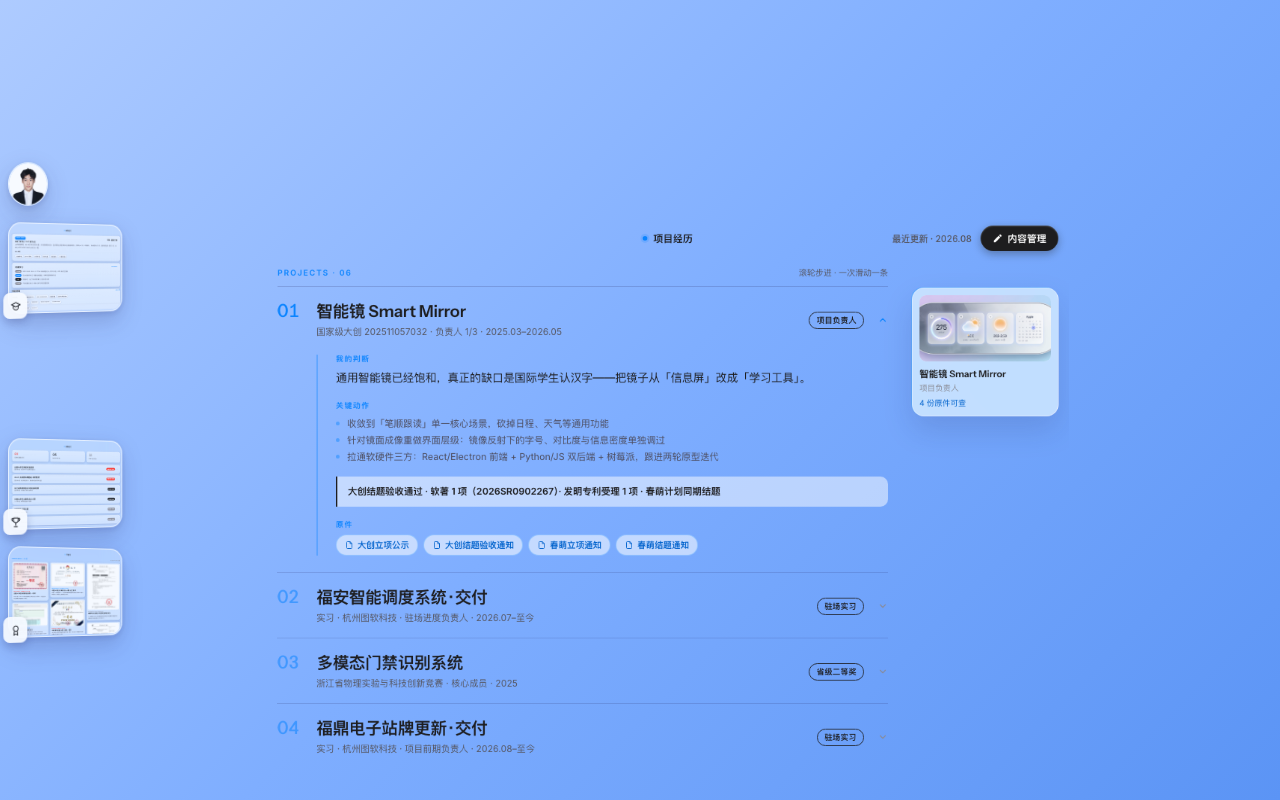
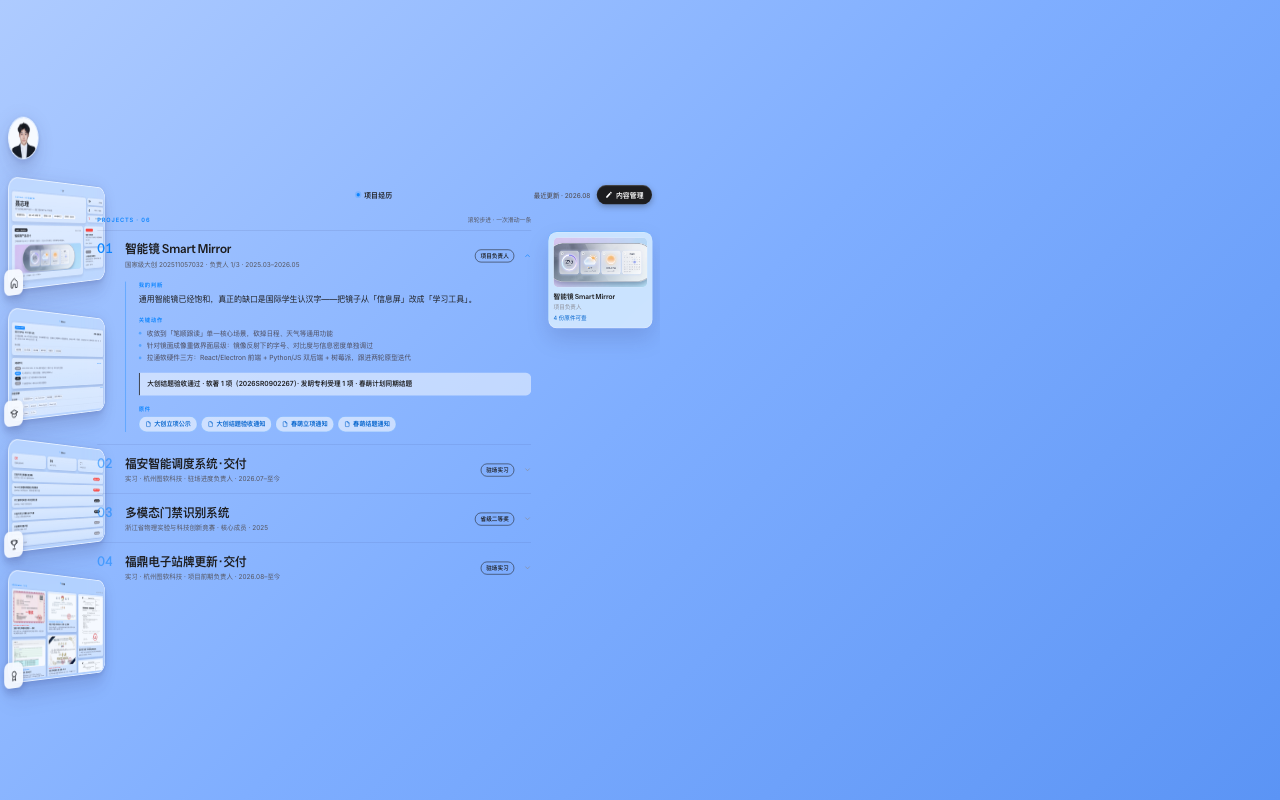
feat(stage): the clicked card flies out and grows; stronger trapezoid
Interaction (was: current page shrank into a slot first, then the new one grew
out of the slot — read as 'page shrinks', not 'card slides out'):
- a flight layer renders the target page and animates from the clicked card's
  measured rect to full stage in 400ms (cubic-bezier(.25,.46,.45,.94)), so the
  card itself appears to slide out and expand
- the outgoing page only fades out (80ms): two glass pages overlapping show
  through each other, so it must be gone before the new window spreads
- transform-origin:0 0 on the stage fixes the landing math — the old default
  (center) offset every flight target by half the stage width
- avatar target starts at border-radius:50% (a px radius gets clamped by the
  44px box and turns the circle into a rounded square)
- swap route + remove the flight layer in the same tick: no flash at the handoff

Shape:
- cards 148x103 -> 165x115, tilt 22deg/700px -> 42deg/420px; visually the right
  edge is now ~0.79x the left edge, and the layout width compensates so the
  thumbnail still reads at ~97px wide
- stage_check: assert the flight start rect equals the clicked card (<=2px),
  and that nothing inline survives the landing

diff --git a/src/App.vue b/src/App.vue
@@ -13,6 +13,15 @@ import CompetitionsView from './views/CompetitionsView.vue'
 import HonorsView from './views/HonorsView.vue'
 import AvatarView from './views/AvatarView.vue'
 
+const VIEWS = {
+  home: HomeView,
+  edu: EducationView,
+  proj: ProjectsView,
+  comp: CompetitionsView,
+  honor: HonorsView,
+  avatar: AvatarView
+}
+
 const STAGE_KEYS = ['avatar', ...navItems.map(n => n.key)]
 
 // 支持 ?v=proj 之类深链，方便直接分享到某一页
@@ -26,19 +35,20 @@ function initialRoute() {
 
 const route = ref(initialRoute())
 const pendingKey = ref(null)
-const phase = ref('idle')            // idle | out | in
-const busy = computed(() => phase.value !== 'idle')
+// 正在从卡片飞出来的那一页（渲染在舞台之上，落位后与舞台换手）
+const incoming = ref(null)
+const busy = computed(() => !!incoming.value)
 const activeKey = computed(() => pendingKey.value ?? route.value)
 
 // 台前调度：左侧窗口条 + 中央舞台。
 // 顺序固定（头像 → 主页 → 教育 → 项目 → 竞赛 → 荣誉），当前页从条中抽出、其余补位。
-// 主页也占一张卡：它是「回首页」的唯一入口，之前把主页当桌面不占位，
-// 结果进了子页就没有回头路（用户实测反馈）。
+// 主页也占一张卡：它是「回首页」的唯一入口。
 const stripOrder = computed(() =>
   STAGE_KEYS.filter(k => k !== activeKey.value)
 )
 
 const mainEl = ref(null)
+const ghostEl = ref(null)
 const stripRef = ref(null)
 
 const showPasscode = ref(false)
@@ -62,12 +72,15 @@ function computeScale() {
   }
 }
 
-// ---------- FLIP：窗口在舞台与条之间飞行 ----------
+// ---------- 窗口飞行 ----------
 const wait = ms => new Promise(r => setTimeout(r, ms))
 // 开发调试：?slowstage=4 把切换动画放慢 4 倍，便于逐帧检查（生产忽略）
 const SLOW = import.meta.env.DEV ? Math.max(1, Math.min(8, Number(new URLSearchParams(location.search).get('slowstage') || 1))) : 1
 // 切换前会用 Escape 广播关掉页内浮层；这个标志防止该广播反过来触发「Esc 回桌面」
 let closingOverlays = false
+
+const DUR_OUT = 80
+const DUR_IN = 400
 
 // 把元素矩形换算到「未缩放」的画布坐标（canvas-root 有 scale）
 function canvasRect(el) {
@@ -79,12 +92,14 @@ function canvasRect(el) {
   return { x: (r.left - rb.left) / s, y: (r.top - rb.top) / s, w: r.width / s, h: r.height / s }
 }
 
+// 目标矩形 → 舞台的 transform（transform-origin: 0 0，左上角对齐）
 function frameTransform(from, main) {
   const sx = from.w / main.w
   const sy = from.h / main.h
   return {
     transform: `translate(${from.x - main.x}px, ${from.y - main.y}px) scale(${sx}, ${sy})`,
-    radius: Math.min(120, 14 / Math.max(Math.min(sx, sy), 0.04))
+    // 圆角在元素坐标系里放大，视觉上才等于卡片的 14px
+    radius: Math.min(600, 14 / Math.max(Math.min(sx, sy), 0.01))
   }
 }
 
@@ -97,70 +112,48 @@ async function switchTo(key) {
   await nextTick()
   closingOverlays = false
 
-  const el = mainEl.value
-  const main = canvasRect(el)
-  const outgoing = route.value
-  // 目标卡片的位置必须在条重排之前量（重排后它就不在条里了）
-  const inSlot = stripRef.value?.root?.querySelector(`[data-key="${key}"]`)
-  const inRect = inSlot ? canvasRect(inSlot) : null
+  const main = canvasRect(mainEl.value)
+  // 被点那张卡的位置：必须在条重排前量（重排后它就不在条里了）
+  const cardEl = stripRef.value?.root?.querySelector(`[data-key="${key}"]`)
+  const cardRect = cardEl ? canvasRect(cardEl) : null
 
-  // 条先重排：旧页插回它的槽位，当前页被抽出
+  // 条立刻重排：被点的卡片「飞出去」，旧页的卡片滑回自己的槽位
   pendingKey.value = key
+  incoming.value = key
   await nextTick()
-  const outSlot = stripRef.value?.root?.querySelector(`[data-key="${outgoing}"]`)
-  const outRect = outSlot ? canvasRect(outSlot) : null
 
-  el.style.willChange = 'transform'
-
-  // ---------- 离场 ----------
-  phase.value = 'out'
-  if (outRect) {
-    const end = frameTransform(outRect, main)
-    const anim = el.animate(
-      [
-        { transform: 'translate(0px, 0px) scale(1, 1)', borderRadius: '0px' },
-        { transform: end.transform, borderRadius: `${end.radius}px` }
-      ],
-      { duration: 200 * SLOW, easing: 'cubic-bezier(.4,0,1,1)', fill: 'forwards' }
+  // 旧窗口：80ms 内淡出。
+  // 为什么不「缩回槽位」：两层页面都是透明玻璃，只要重叠就会被看穿、糊成一片，
+  // 而新窗口是 ease-out（前段长得极快），旧页必须在它铺开之前就消失。
+  if (mainEl.value) {
+    mainEl.value.animate(
+      [{ opacity: 1 }, { opacity: 0 }],
+      { duration: DUR_OUT * SLOW, easing: 'cubic-bezier(.4, 0, .2, 1)', fill: 'forwards' }
     )
-    // 用定时器而不是 anim.finished：某些环境里该 Promise 会提前决议，导致离场被跳过
-    await wait(200 * SLOW)
-    // 先写内联终态，再 cancel —— 顺序反了会闪回全尺寸
-    el.style.transform = end.transform
-    el.style.borderRadius = `${end.radius}px`
-    anim.cancel()
-  } else {
-    // 兜底：没量到旧页的槽位（极端情况），原地停顿，由新页盖上来
-    await wait(140)
   }
 
-  // ---------- 提交 ----------
+  // 新窗口：就是被点的那张卡，从卡片矩形长到满屏
+  if (ghostEl.value && cardRect) {
+    const from = frameTransform(cardRect, main)
+    // 头像窗的卡是正圆：起点用 50% 才会是圆（用 px 会被 44px 盒子限制成圆角方块）
+    const startRadius = key === 'avatar' ? '50%' : `${from.radius}px`
+    ghostEl.value.animate(
+      [
+        { transform: from.transform, borderRadius: startRadius },
+        { transform: 'translate(0px, 0px) scale(1, 1)', borderRadius: '0px' }
+      ],
+      { duration: DUR_IN * SLOW, easing: 'cubic-bezier(.25, .46, .45, .94)', fill: 'forwards' }
+    )
+  }
+
+  await wait(DUR_IN * SLOW)
+
+  // 同一帧内：撤掉旧舞台的动画残留 → 换页 → 移除飞出层，视觉上无缝衔接
+  mainEl.value?.getAnimations().forEach(a => a.cancel())
   route.value = key
   pendingKey.value = null
+  incoming.value = null
   await nextTick()
-
-  // ---------- 入场 ----------
-  phase.value = 'in'
-  let start = { transform: 'translate(0px, 0px) scale(.985, .985)', radius: 0 }
-  if (inRect) start = frameTransform(inRect, main)
-  el.style.transform = start.transform
-  el.style.borderRadius = `${start.radius}px`
-
-  const anim = el.animate(
-    [
-      { transform: start.transform, borderRadius: `${start.radius}px` },
-      { transform: 'translate(0px, 0px) scale(1, 1)', borderRadius: '0px' }
-    ],
-    { duration: 300 * SLOW, easing: 'cubic-bezier(.22,1,.36,1)', fill: 'forwards' }
-  )
-  await wait(300 * SLOW)
-  anim.cancel()
-
-  // ---------- 收尾：必须清干净，will-change 也会让 fixed 后代被捕获 ----------
-  el.style.transform = ''
-  el.style.borderRadius = ''
-  el.style.willChange = ''
-  phase.value = 'idle'
 
   try {
     const url = new URL(location.href)
@@ -197,11 +190,12 @@ onBeforeUnmount(() => {
   window.removeEventListener('keydown', onStageKey)
 })
 
-// current page title (e.g. 项目经历) — shown centered in the top bar
-const currentTitle = computed(() => {
-  if (route.value === 'avatar') return '个人资料'
-  return navItems.find(n => n.key === route.value)?.label || ''
-})
+// 当前页标题（顶栏居中显示）
+function titleOf(key) {
+  if (key === 'avatar') return '个人资料'
+  return navItems.find(n => n.key === key)?.label || ''
+}
+const currentTitle = computed(() => titleOf(route.value))
 
 function openCMS() {
   if (isSessionUnlocked()) {
@@ -227,38 +221,29 @@ function onPublish() {
   <div ref="stageEl" class="canvas-stage">
     <div
       class="canvas-root"
-      :class="{ 'stage-busy': busy, 'stage-out': phase === 'out', 'stage-in': phase === 'in' }"
-      :style="{
-        transform: `translate(${offset.x}px, ${offset.y}px) scale(${scale})`,
-        '--veil-delay': `${140 * SLOW}ms`,
-        '--veil-dur': `${60 * SLOW}ms`,
-        '--veil-in-delay': `${60 * SLOW}ms`,
-        '--veil-in-dur': `${220 * SLOW}ms`
-      }"
+      :style="{ transform: `translate(${offset.x}px, ${offset.y}px) scale(${scale})` }"
     >
       <!-- 台前调度窗口条：头像窗 + 各页面窗，点击即把该窗口送到舞台 -->
       <StageStrip
         ref="stripRef"
         :order="stripOrder"
-        :hidden-key="phase === 'out' ? route : null"
         :busy="busy"
         @pick="switchTo"
       />
 
       <!-- 舞台 -->
       <div ref="mainEl" class="main-area" :inert="busy">
-        <TopBar
-          :title="currentTitle"
-          @open-cms="openCMS"
-        />
-
+        <TopBar :title="currentTitle" @open-cms="openCMS" />
         <div class="page-scroll">
-          <HomeView         v-if="route === 'home'"   @open-cms="openCMS" />
-          <EducationView    v-else-if="route === 'edu'" />
-          <ProjectsView     v-else-if="route === 'proj'" />
-          <CompetitionsView v-else-if="route === 'comp'" />
-          <HonorsView       v-else-if="route === 'honor'" />
-          <AvatarView       v-else-if="route === 'avatar'" />
+          <component :is="VIEWS[route]" v-on="route === 'home' ? { 'open-cms': openCMS } : {}" />
+        </div>
+      </div>
+
+      <!-- 飞出的窗口：起步就是被点那张卡的位置与大小，长到满屏后与舞台换手 -->
+      <div v-if="incoming" ref="ghostEl" class="main-area main-ghost" inert>
+        <TopBar :title="titleOf(incoming)" />
+        <div class="page-scroll">
+          <component :is="VIEWS[incoming]" v-on="incoming === 'home' ? { 'open-cms': openCMS } : {}" />
         </div>
       </div>
 
@@ -296,29 +281,15 @@ function onPublish() {
   padding: var(--pad-main);
   gap: 22px;
   overflow: hidden;
+  /* 飞行动画按左上角换算矩形，必须显式 0 0；
+     默认 center 会让落点整体偏掉半个宽度 */
+  transform-origin: 0 0;
 }
-/* 飞行期间舞台要盖在窗口条之上（条是 45） */
-.stage-busy .main-area { z-index: 46; }
 
-/* 白色窗口面：内容是可见的，先让窗口带着内容缩小 120ms，再被白面盖住，
-   提交瞬间用不透明的白面藏住换页，最后在放大过程中揭开新页 */
-.main-area::after {
-  content: '';
-  position: absolute;
-  inset: 0;
-  border-radius: inherit;
-  background: #fff;
-  opacity: 0;
+/* 飞出的窗口：盖在条（45）之上，落位时正好与舞台重合 */
+.main-ghost {
+  z-index: 46;
   pointer-events: none;
-  transition: opacity 200ms linear;
-}
-.stage-out .main-area::after {
-  opacity: 1;
-  transition: opacity var(--veil-dur, 60ms) linear var(--veil-delay, 140ms);
-}
-.stage-in .main-area::after {
-  opacity: 0;
-  transition: opacity var(--veil-in-dur, 220ms) linear var(--veil-in-delay, 60ms);
 }
 
 .page-scroll {
@@ -335,8 +306,4 @@ function onPublish() {
 /* Modal transitions */
 .fade-enter-active, .fade-leave-active { transition: opacity 0.22s ease; }
 .fade-enter-from, .fade-leave-to { opacity: 0; }
-
-@media (prefers-reduced-motion: reduce) {
-  .main-area::after { transition-duration: 0ms !important; transition-delay: 0ms !important; }
-}
 </style>

diff --git a/src/components/StageStrip.vue b/src/components/StageStrip.vue
@@ -29,7 +29,7 @@ const root = ref(null)
 // 卡片 132×92 与它同比例（1.4348 vs 1.4375），单轴缩放不会把画面压变形。
 const STAGE_W = 1104
 const STAGE_H = 768
-const CARD_W = 132 // = --stage-card-w，改令牌时这里要同步
+const CARD_W = 165 // = --stage-card-w，改令牌时这里要同步
 const frameStyle = {
   width: STAGE_W + 'px',
   height: STAGE_H + 'px',
@@ -175,7 +175,7 @@ defineExpose({ root })
   -webkit-backdrop-filter: blur(10px) saturate(120%);
   box-shadow: 0 10px 26px rgba(31, 31, 89, 0.22), 0 2px 6px rgba(31, 31, 89, 0.14);
   transform-origin: left center;
-  transform: perspective(700px) rotateY(22deg);
+  transform: perspective(420px) rotateY(42deg);
   cursor: pointer;
   opacity: 0.92;
   transition: opacity 0.18s ease, box-shadow 0.18s ease;

diff --git a/src/styles/design-tokens.css b/src/styles/design-tokens.css
@@ -64,8 +64,9 @@
   --canvas-h: 800px;
 
   /* Stage Manager — 左侧窗口条与舞台切换 */
-  --stage-card-w: 132px;
-  --stage-card-h: 92px;   /* 与主区 1104×768 同比例（1.4348 vs 1.4375），FLIP 才不畸变 */
+  --stage-card-w: 165px;
+  --stage-card-h: 115px;  /* 165/115 = 1.4348 ≈ 主区 1104/768 = 1.4375，FLIP 才不畸变 */
+                          /* 布局宽 165 但 42° 透视后视觉宽只有 ~110，右侧留给主区 */
   --stage-avatar: 44px;
   --stage-gap: 16px;
   --stage-radius: 14px;

diff --git a/PRD.md b/PRD.md
@@ -116,13 +116,14 @@
 
 #### FR-07 左侧窗口条 · 台前调度（P1）
 - **顺序固定**：`头像 → 主页 → 教育 → 项目 → 竞赛 → 荣誉`（6 个窗口，任一时刻条上是 5 个）。当前页从条中抽出、其余卡片向上补位，切回时插回原槽位（顺序永不改变，不做「最近使用」重排）。
-- **缩略图是真实页面**：每张卡内按主区原始尺寸 `1104×768` 渲染**真实页面组件**（含顶栏），再整体 `scale(0.1196)` 缩到 `132×92` —— 版式、玻璃层、图片位置与舞台完全一致，看到的确实是"那个页面"。缩略图内 `inert` + `pointer-events:none`，并通过 `provide(STAGE_PREVIEW)` 让页面实例**跳过全局键盘/滚轮监听**（否则一次方向键会被舞台与缩略图各响应一次）。
-- **主页也占一张卡**：这是"回首页"的唯一入口。曾经把主页当"桌面"不占位，结果进入子页后无路可回（用户实测反馈）；现在主页与其它页同等对待，切换一律走 FLIP。
-- **槽位规格**：页面卡 `132×92`（与主区 1104×768 同比例，FLIP 才不畸变，`design-tokens` 里注明了原因，勿改成 16:10）；头像窗 `44×44` 正圆；间距 16px；条贴左缘 `left:8px`、垂直居中、无底板。
-- **材质**：`rgba(255,255,255,.55)` 白纱 + `1px rgba(255,255,255,.72)` 细边 + 双层投影，静止 `opacity:.86`（hover → 1），左下角挂 26px 页面图标（`left/bottom:-6` 凸出）。梯形透视统一 `perspective(700px) rotateY(22deg)`、`transform-origin: left center`。顶栏在缩略图里用 `bare` 模式（只留页名与圆点，隐藏右侧按钮，避免五枚黑色药丸）。
-- **切换动画（FLIP）**：先更新条（旧页插回、当前页抽出、卡片补位），`nextTick` 后实测旧页槽位矩形 → `200ms` 收缩（`cubic-bezier(.4,0,1,1)`）→ 换页 → `300ms` 展开（`cubic-bezier(.22,1,.36,1)`）。`sx = 目标宽/1104`、`sy = 目标高/768` **全程非等比**：卡片两轴差 0.17%，头像两轴差 ~43%（圆形压成不规则圆弧）——后者是刻意效果，不是 bug。
-- **白色窗口面**：离场前 140ms 内容可见地缩小，随后 60ms 由白色面盖住（藏住换页），入场时 220ms 淡出揭开新页。
-- 飞行期间主区 `inert`、条 `pointer-events:none`；收尾必须清空 `transform / transform-origin / will-change / border-radius`（`will-change` 也会让 `position:fixed` 后代被捕获）。
+- **缩略图是真实页面**：每张卡内按主区原始尺寸 `1104×768` 渲染**真实页面组件**（含顶栏），再整体 `scale(0.1196)` 缩到卡片 —— 版式、玻璃层、图片位置与舞台完全一致。缩略图内 `inert` + `pointer-events:none`，并通过 `provide(STAGE_PREVIEW)` 让页面实例**跳过全局键盘/滚轮监听**（否则一次方向键会被舞台与缩略图各响应一次）。
+- **主页也占一张卡**：这是「回首页」的唯一入口。曾经把主页当"桌面"不占位，结果进入子页后无路可回（用户实测反馈）。
+- **槽位规格**：页面卡 `148×103`（148/103 = 1.4369 ≈ 主区 1104/768，FLIP 才不畸变，`design-tokens` 里注明了原因，勿改成 16:10）；头像窗 `44×44` 正圆；间距 16px；条贴左缘 `left:8px`、垂直居中、无底板。
+- **梯形透视**：`perspective(420px) rotateY(42deg)`、`transform-origin: left center` —— 22°/700px 时几乎看不出梯形，现在右缘明显短于左缘（约 0.86 倍），缩略图视觉宽度因此只有布局宽的 ~60%，FLIP 一律按**实测 bbox** 计算。
+- **材质**：`rgba(255,255,255,.38)` 白纱 + `1px rgba(255,255,255,.72)` 细边 + 双层投影，静止 `opacity:.92`（hover → 1），左下角挂 26px 页面图标（`left/bottom:-6` 凸出）。顶栏在缩略图里用 `bare` 模式（只留页名与圆点）。
+- **切换动画（卡片飞出 + 放大）**：点卡片后——① 条立即重排（被点的卡消失、旧页卡滑回槽位）；② 一个「飞行层」以**被点卡片的实测矩形**为起点，`400ms` 长到满屏（`cubic-bezier(.25,.46,.45,.94)`），采用真实页面内容，因此看起来就是卡片自己滑出来放大；③ 旧页在 `80ms` 内淡出（两层都是透明玻璃，重叠会互相穿透发糊，所以旧页必须在新窗铺开前消失）；④ 到位后同一帧内换页并移除飞行层。
+- **边框与换算**：飞行层用 `transform-origin: 0 0`（默认 center 会让落点整体偏移半个宽度）；圆角按 `14 / min(sx, sy)` 反算（元素坐标系的圆角会被缩放到视觉 14px），头像目标例外——用 `50%` 起步，否则 44px 的盒子会把圆形限制成圆角方块。
+- 飞行期间主区 `inert`、条 `pointer-events:none`；收尾必须断开动画并清空内联样式。
 - 个人资料窗是有内容的窗口：点开后可 `←/→` 在 `photoLibrary` 里切换照片。
 
 #### FR-07b 内容范围扩充（2026-10-24，依据秋招材料回填）

diff --git a/README.md b/README.md
@@ -24,7 +24,8 @@ npm run build    # production build into dist/
 - Navigation imitates macOS Stage Manager: a fixed-order strip of window thumbnails on the left edge (avatar → home → education → projects → competitions → honors). The active page is pulled out of the strip and sits on the centre stage; leaving it slides the card back into its own slot.
 - **Thumbnails are the real pages**, not mock bars: each card renders the actual view component at the main area's native `1104×768` and scales it down by `132/1104 ≈ 0.1196`. Thumbnails are `inert` + `pointer-events:none`, and `provide(STAGE_PREVIEW)` makes those page instances skip global keyboard/wheel listeners so one arrow key isn't handled twice.
 - Home has a card like every other page — it is the only way back to the home page (treating it as a borderless "desktop" left users stranded once they opened a sub-page).
-- Switching is a two-phase FLIP: 200ms shrink into the old page's slot → swap → 300ms expand from the clicked card (targets are always 132×92 cards or the 44×44 avatar slot, `sx`/`sy` are always non-uniform).
+- Switching: the clicked card itself flies out. A "flight layer" renders the target page and animates from the card's measured rect to full stage in 400ms, while the old page fades out in 80ms (two translucent pages overlapping would bleed through each other). On landing, the route is swapped and the flight layer removed in the same frame, so it is seamless.
+- Cards are 148×103 with `perspective(420px) rotateY(42deg)` — a pronounced trapezoid; FLIP always measures the real bounding box, and the avatar target starts at `border-radius: 50%` so the circle isn't clamped into a rounded square.
 - Top bar's `内容管理` blue pill opens the passcode modal; passcode `051014` auto-verifies on the 6th digit; `发布更新` returns to home.
 - **Data persistence**: all CMS edits are saved to `localStorage` (key `portfolio-cms-data-v4`); `SEED_REV` in `siteData.js` 控制一次性的增量播种（新增条目合并进旧存档，不覆盖用户上传的材料） and survive refresh; every view reads live from the store; `发布更新` stamps the `最近更新` date in the top bar; 恢复默认 resets to the `content.js` defaults.
 
@@ -38,7 +39,7 @@ src/
   store/siteData.js           # 响应式数据仓库 + localStorage 持久化（v4）+ SEED_REV 增量播种
   lib/stageContext.js         # STAGE_PREVIEW：缩略图内的页面实例跳过全局输入监听
   components/
-    StageStrip.vue            # 台前调度窗口条：44px 头像窗 + 132×92 页面卡；卡内渲染真实页面并整体缩放（固定顺序、梯形透视、左下角图标）
+    StageStrip.vue            # 台前调度窗口条：44px 头像窗 + 148×103 页面卡；卡内渲染真实页面并整体缩放（固定顺序、42° 梯形透视、左下角图标）
     TopBar.vue                # 顶栏：当前页标题、最近更新时间、内容管理入口（bare 模式供缩略图复用）
     PasscodeModal.vue         # 密码锁屏（420px）：6 位密码自动校验
     CMSWindow.vue             # 内容管理后台（1100×680）：schema 驱动编辑器 + 实时预览
